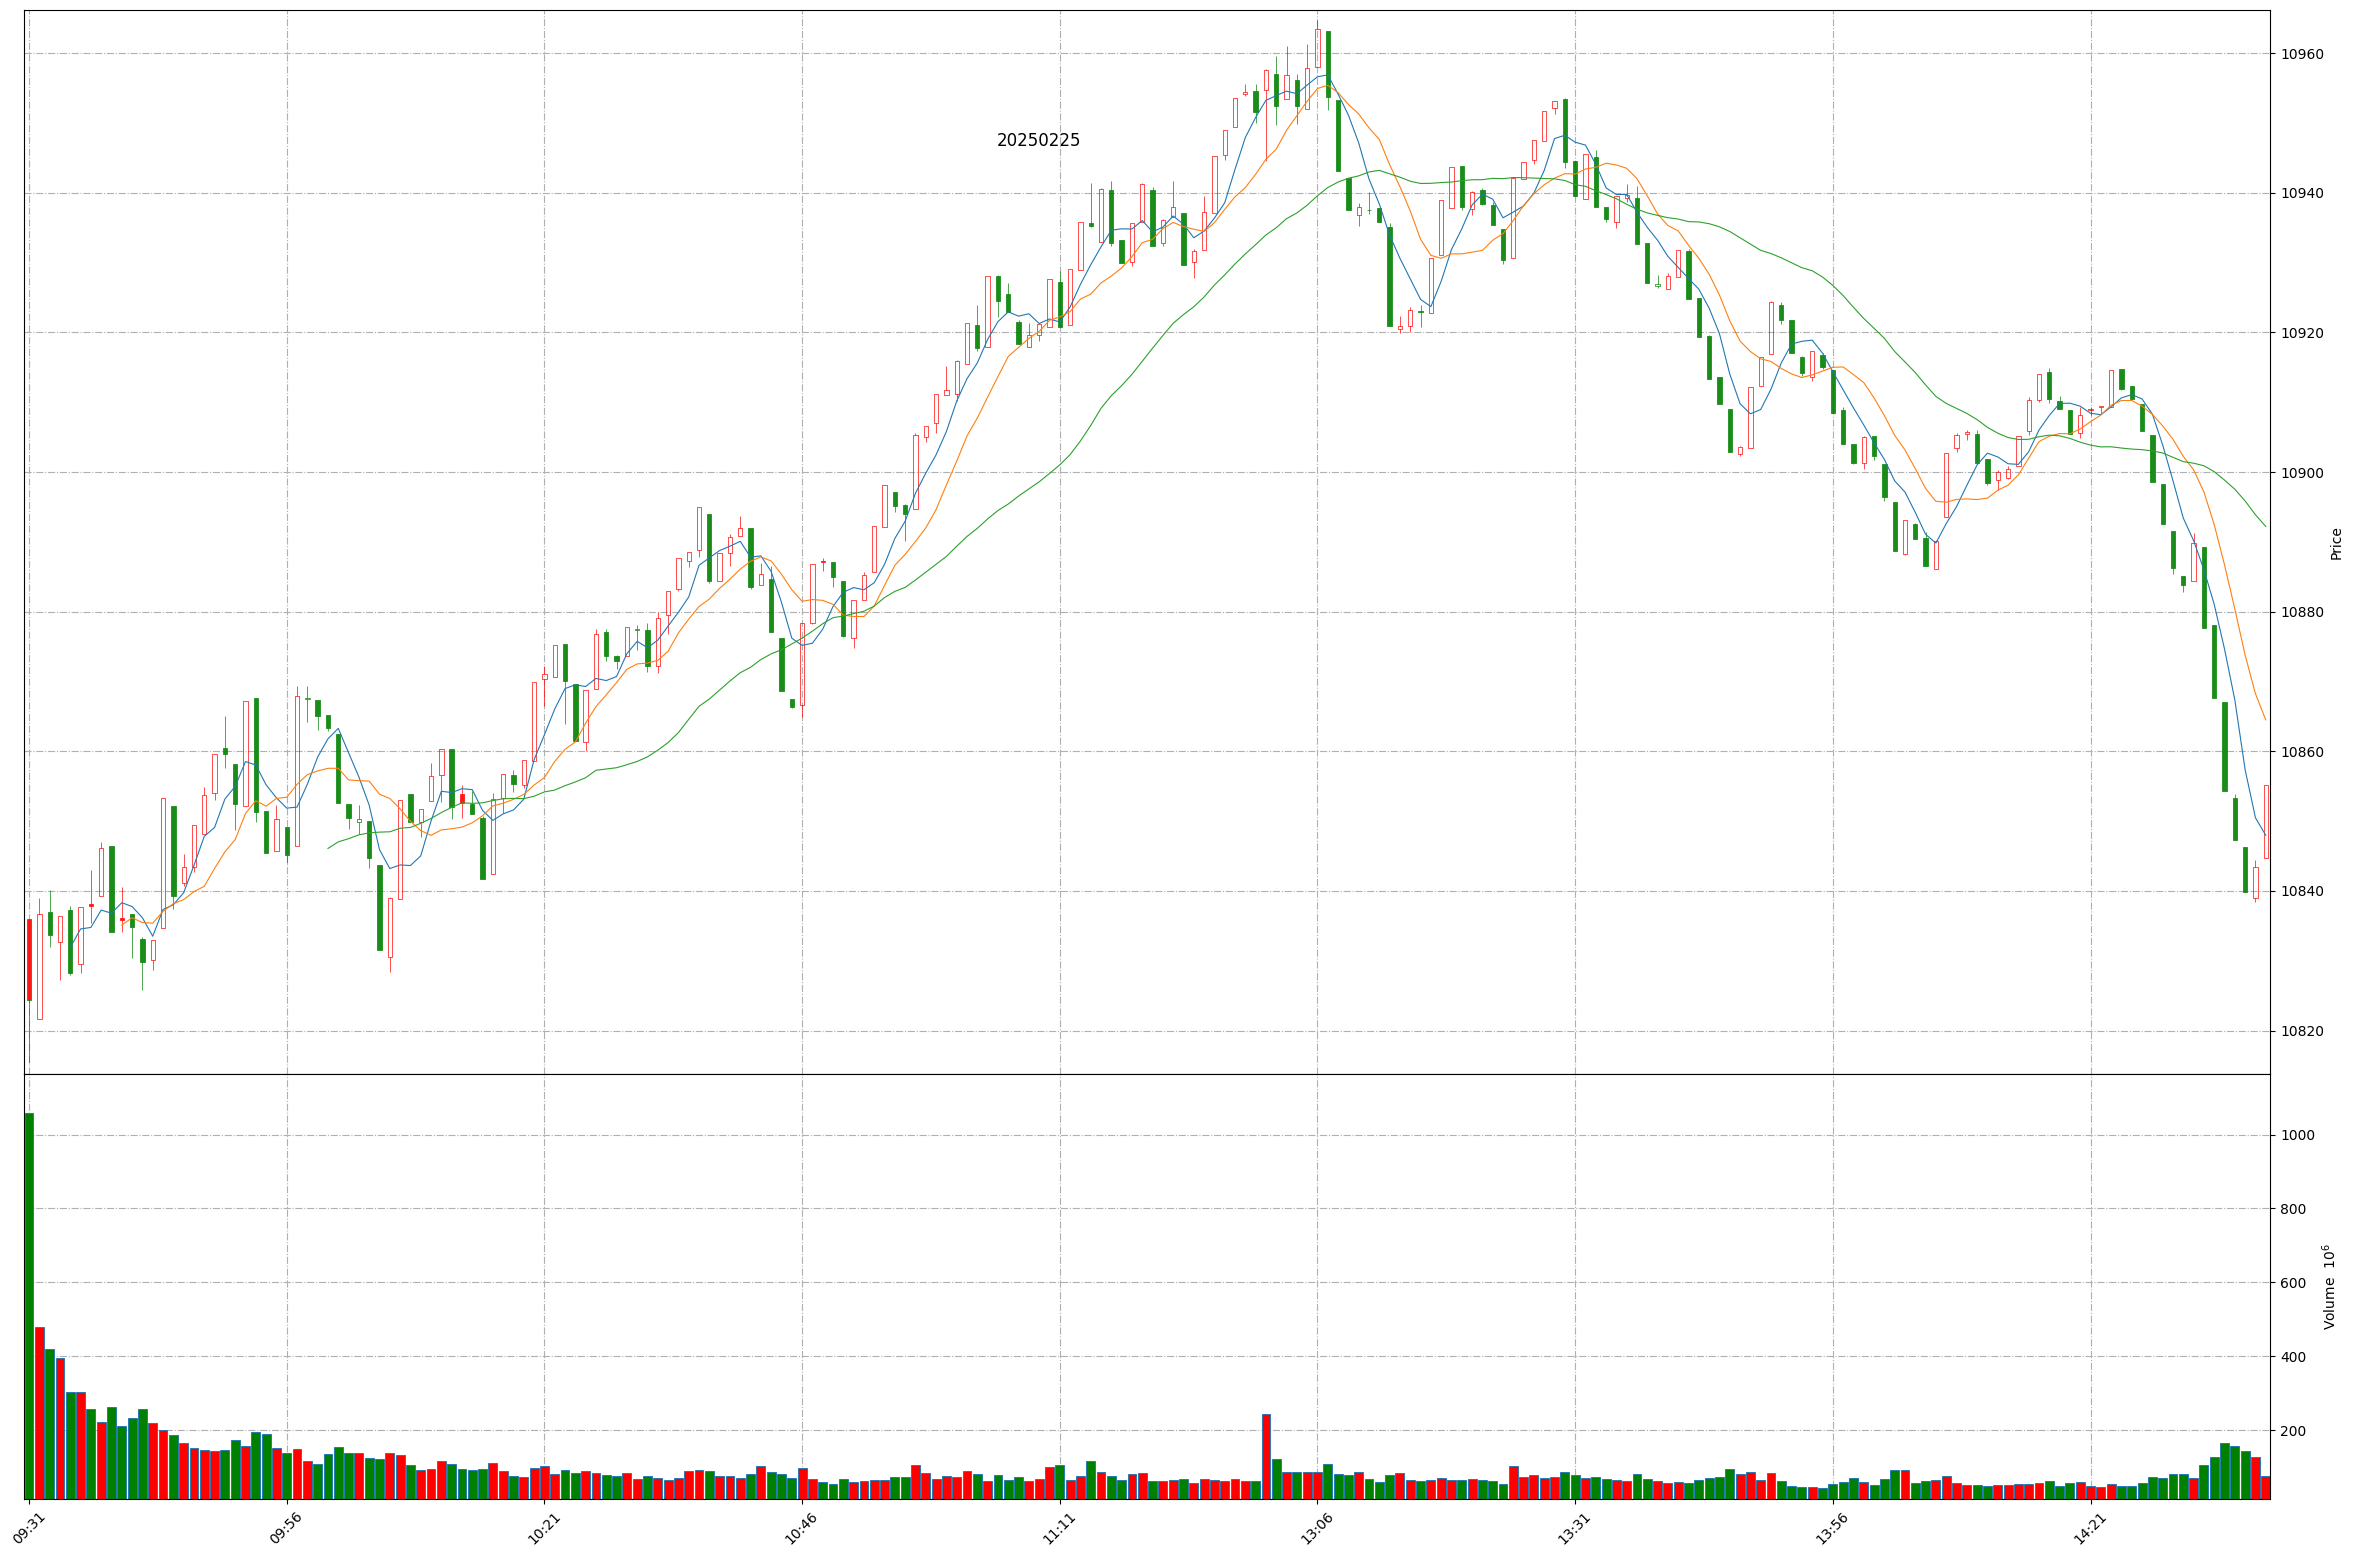
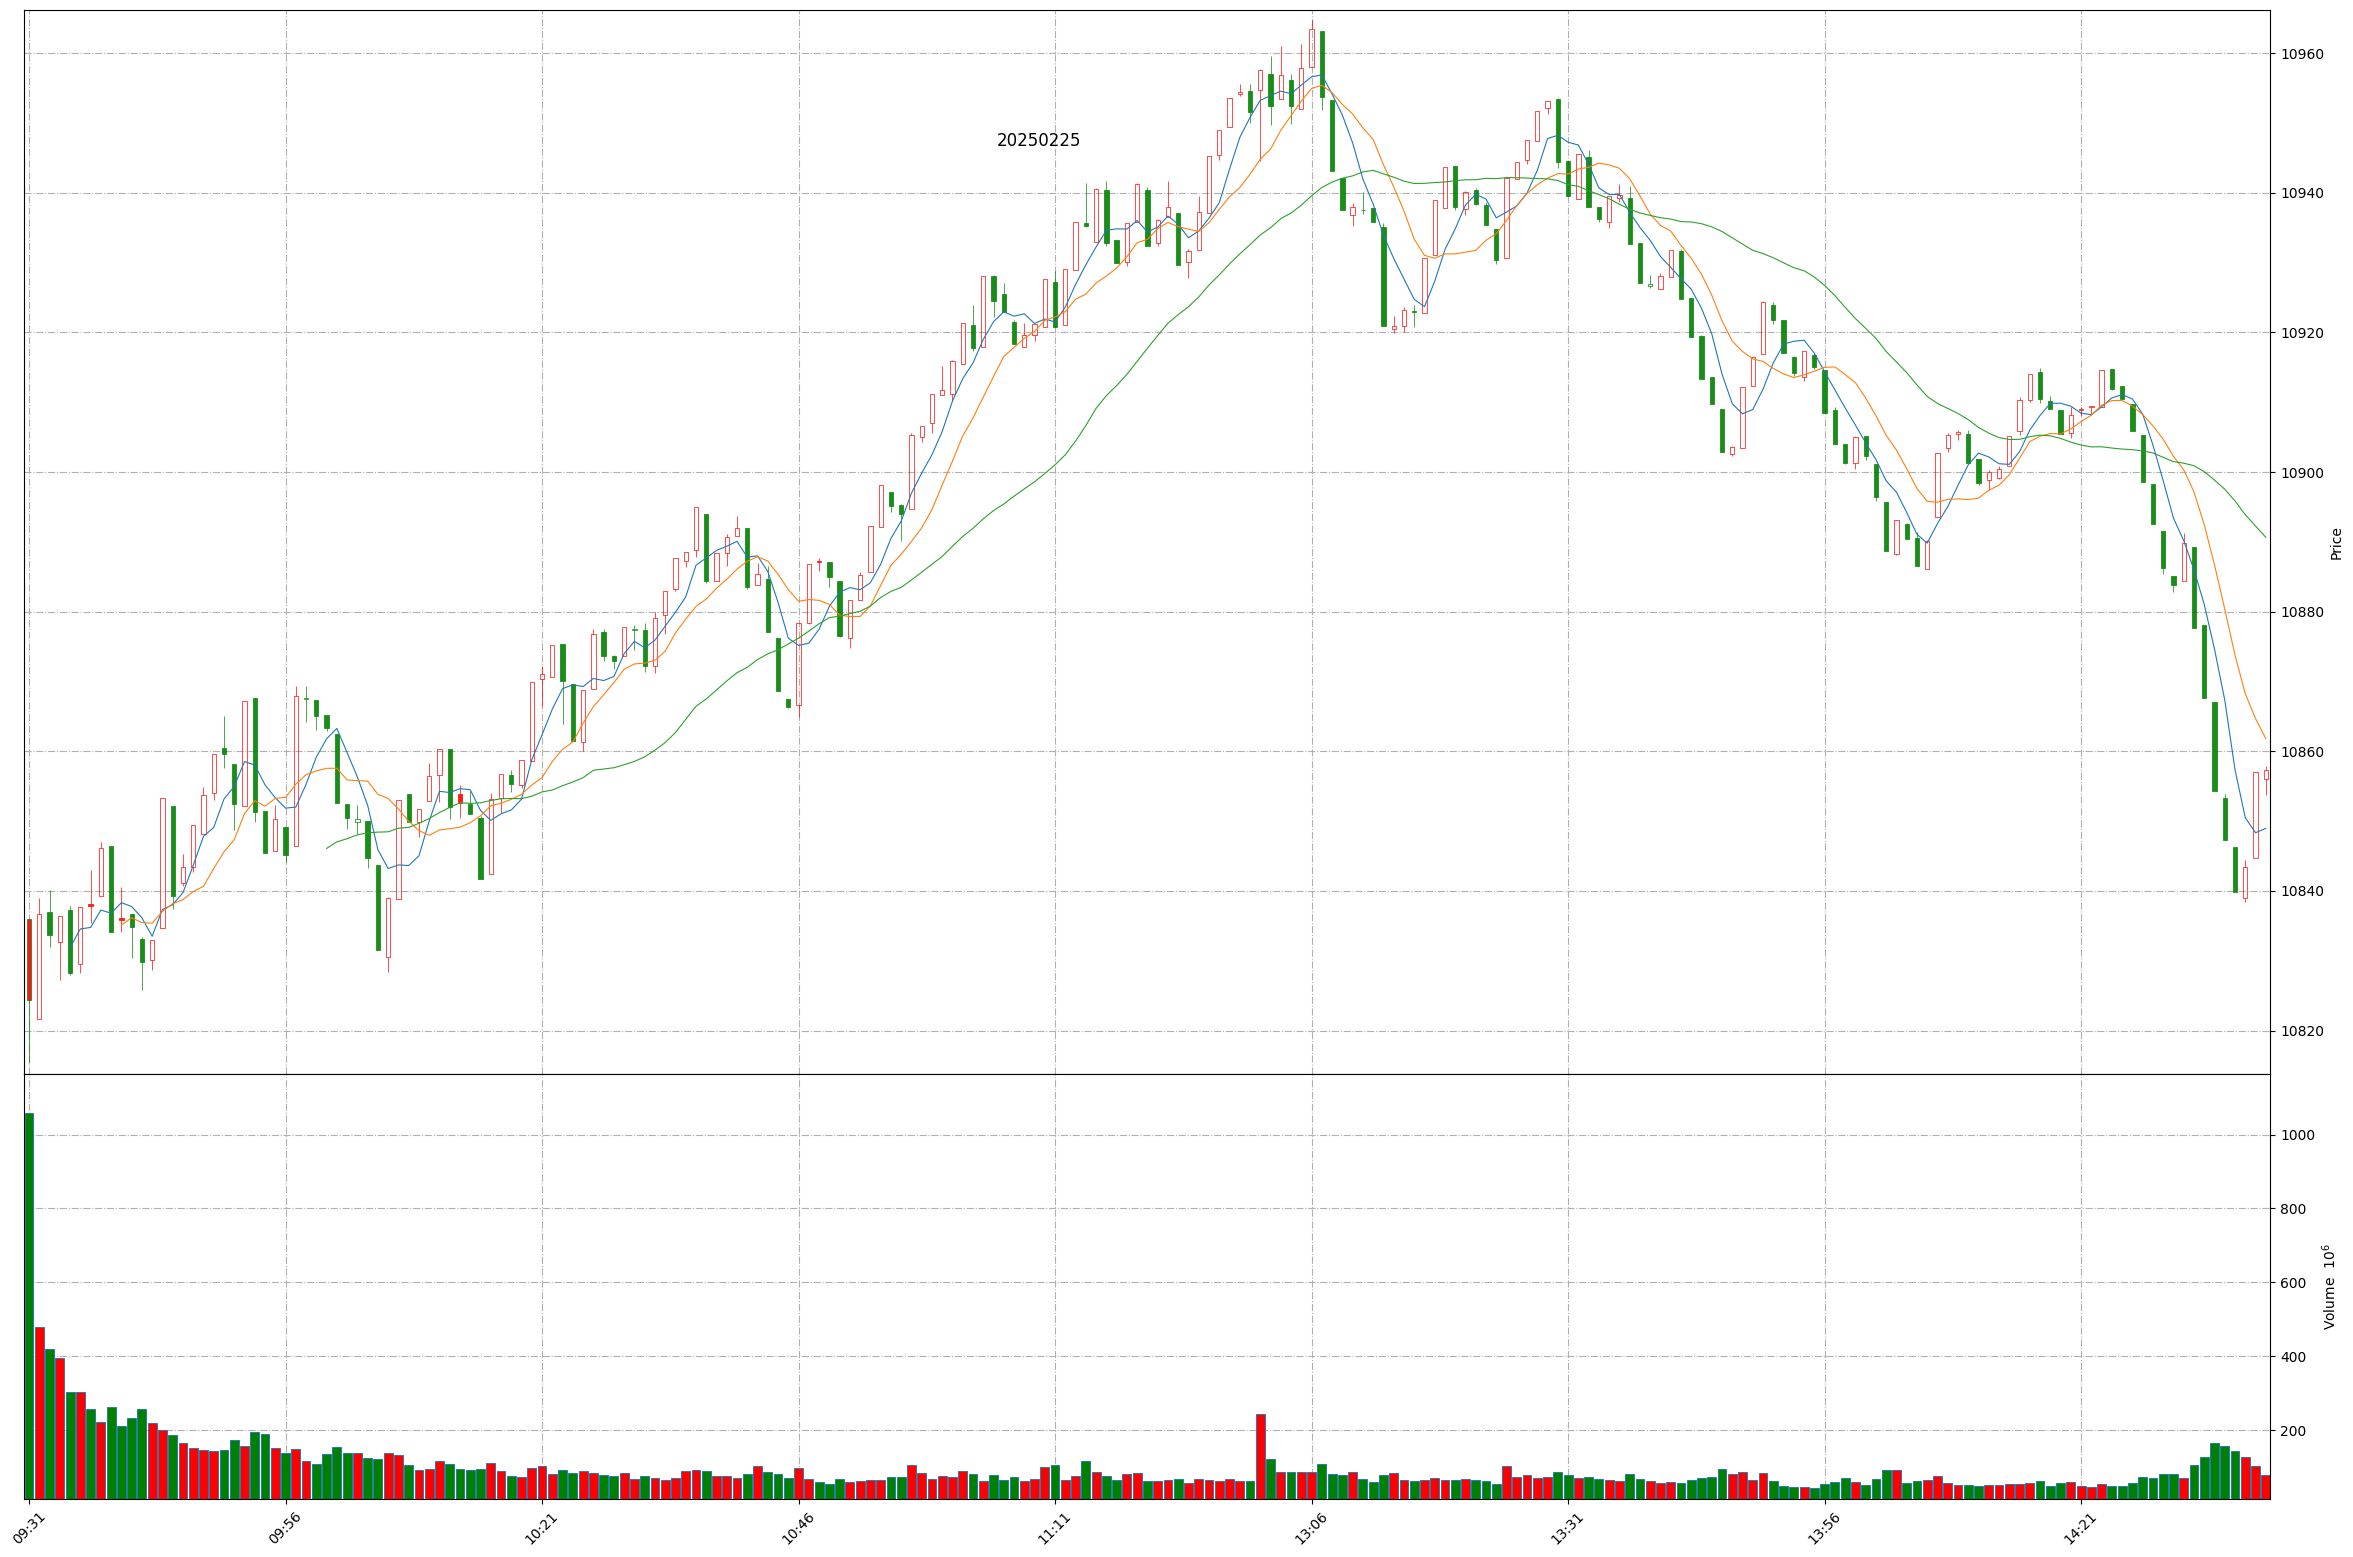
Github action update at 2025-02-25 14:39:20.

diff --git a/README.md b/README.md
@@ -1,11 +1,11 @@
 
 # Daily-A-share-market-quotes 每日 A 股指数（5min 更新）- 20250225
 
-### 上证指数 20250225 14:37
+### 上证指数 20250225 14:39
 ![](./fig/2025/2/20250225-sh000001.png)
 
-### 深证成指 20250225 14:37
+### 深证成指 20250225 14:39
 ![](./fig/2025/2/20250225-sz399001.png)
 
-### 北证50 20250225 14:37
+### 北证50 20250225 14:39
 ![](./fig/2025/2/20250225-bj899050.png)
